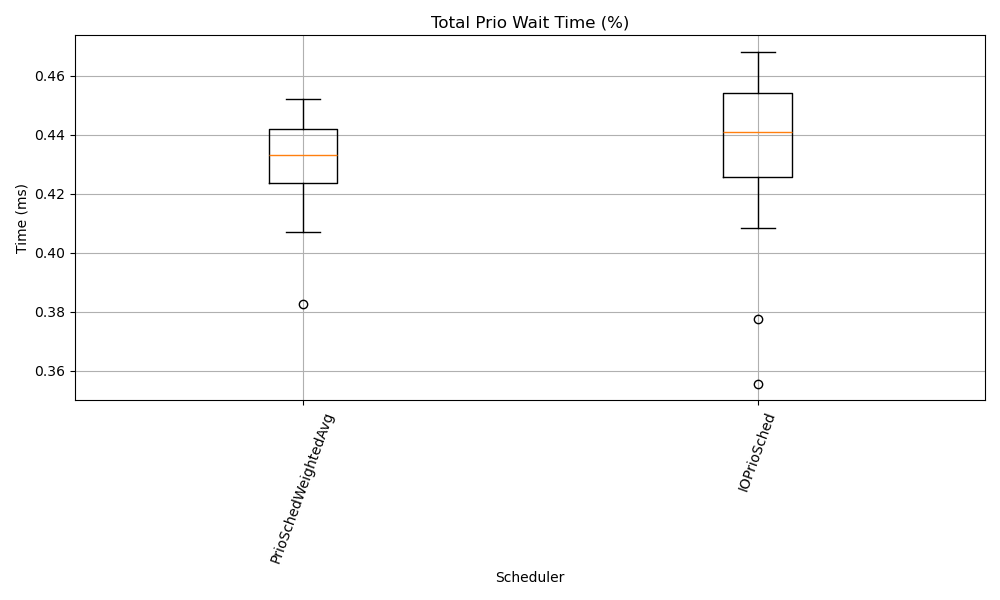
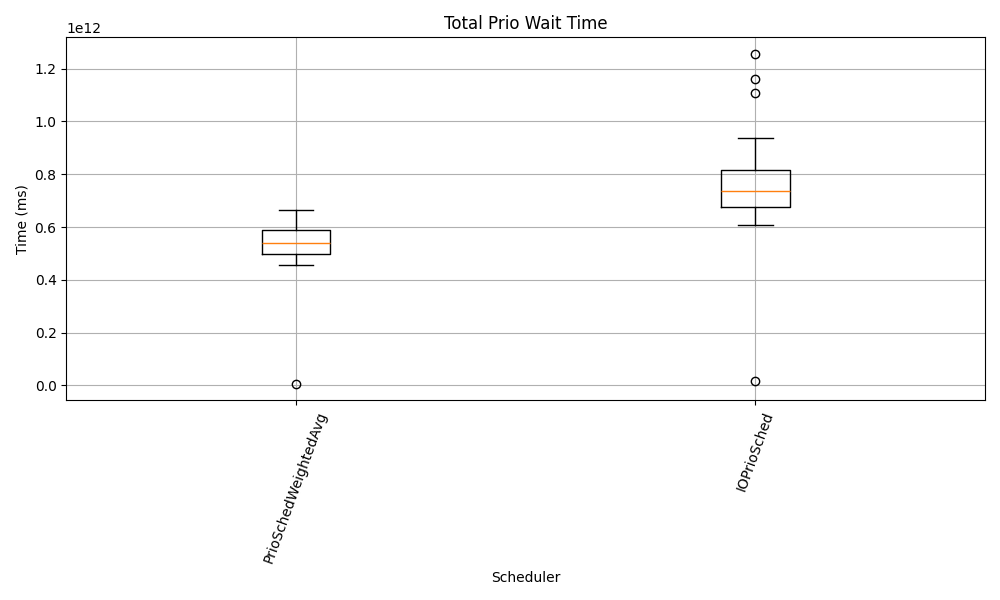
Added queue wait time graph

diff --git a/graphs.py b/graphs.py
@@ -13,18 +13,24 @@ compareables = ["RoundRobinSched-dotty+reactors-30", "PrioSchedWeightedAvg-dotty
 FILTER_FIRST_N = 30
 
 
-BENCHMARK = "reactors"
+BENCHMARK = "dotty"
 DATA_FOLDER = "zdata/"
 # Ensure the necessary folders exist
 os.makedirs(f"{DATA_FOLDER}/graphs", exist_ok=True)
 
-def plot_boxplot(data, title, ylabel, filename):
+def plot_boxplot(data, title, ylabel, filename, xticks=None, xlabel=None):
     plt.figure(figsize=(10, 6))
     plt.boxplot(data)
-    plt.xlabel('Scheduler')
+    if xlabel is None:
+        plt.xlabel('Scheduler')
+    else:
+        plt.xlabel(xlabel)
     plt.ylabel(ylabel)
     plt.title(title)
-    plt.xticks(range(1, len(compareables) + 1), map(lambda x: x.split("-")[0], compareables), rotation=70)
+    if xticks is None:
+        plt.xticks(range(1, len(compareables) + 1), map(lambda x: x.split("-")[0], compareables), rotation=70)
+    else:
+        plt.xticks(range(1, len(xticks) + 1), xticks, rotation=70)
     plt.grid(True)
     plt.tight_layout()
     plt.savefig(f"{DATA_FOLDER}/graphs/boxplot-{filename}.png")
@@ -127,5 +133,10 @@ for compareable in compareables:
     total_normal_wait_times[compareable] = data[compareable][BENCHMARK]["total_normal_wait_time"]
     total_normal_wait_times[compareable] = [sum(wait_times) for wait_times in total_normal_wait_times[compareable] if len(wait_times) > FILTER_FIRST_N]
 
-plot_boxplot([total_prio_wait_times[comparable] for comparable in compareables], "Total Prio Wait Time", "Time (ms)", f"total-prio-wait-times-{BENCHMARK}")
-plot_boxplot([total_normal_wait_times[comparable] for comparable in compareables], "Total Prio Wait Time", "Time (ms)", f"total-normal-wait-times-{BENCHMARK}")
+xticks = map(lambda x: x.split("-")[0], compareables)
+xticks = [label for name in xticks for label in (name + " normal queue", name + " prio queue")]
+values = []
+for comparable in compareables:
+    values.append(total_normal_wait_times[comparable])
+    values.append(total_prio_wait_times[comparable])
+plot_boxplot(values, "Total Wait Time per queue", "Time in queue (ms)", f"queue-wait-times-{BENCHMARK}", xlabel="Queue", xticks=xticks)

diff --git a/OURREADME.md b/OURREADME.md
@@ -1,1 +1,7 @@
+# Download renaissance
 download from https://renaissance.dev/download the renaissance-gpl-0.16.0.jar file
+
+
+
+# Run benchmark
+``sudo python3 benchmark.py``
